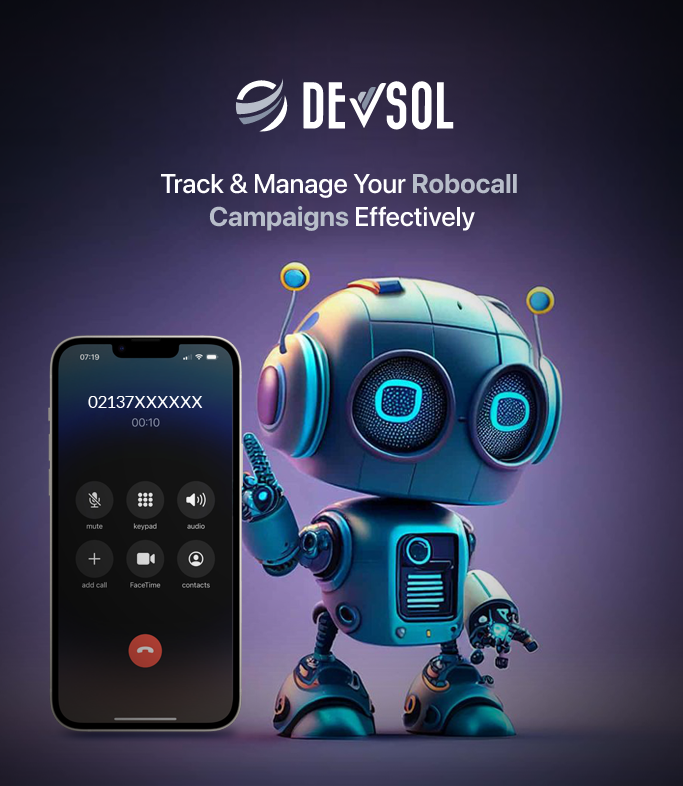
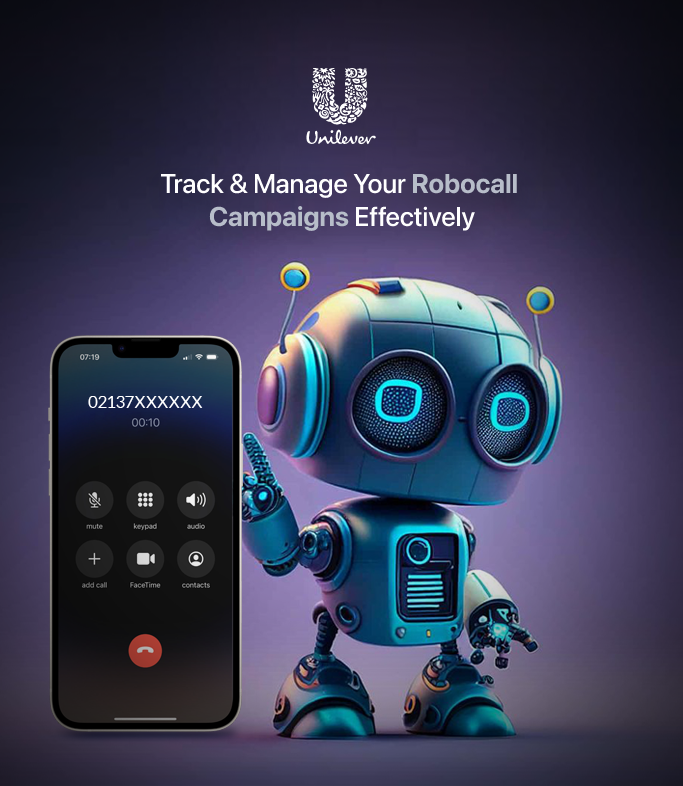
done changes

Changed region(s): [[0.3382, 0.0611, 0.6764, 0.1832]]

diff --git a/src/pages/Camapign/CampaignReport.js b/src/pages/Camapign/CampaignReport.js
@@ -301,8 +301,10 @@ const CampaignReport = () => {
                   <th>CALLER NUMBER</th>
                   <th>RETRY COUNT</th>
                   <th>RESPONSE</th>
-                  <th>DTMF</th>
-                  <th>NUMBER</th>
+                  <th>Question1</th>
+                  <th>Question2</th>
+                  <th>Question3</th>
+                  {/* <th>NUMBER</th> */}
                   <th>START DATE</th>
                   <th>START TIME</th>
                   <th>END DATE</th>
@@ -343,8 +345,10 @@ const CampaignReport = () => {
                         </td>
                         <td className="textCapatalize">{val.retry_count}</td>
                         <td>{val.response === "" ? "-" : val.response}</td>
-                        <td>{val.DTMF}</td>
-                        <td>{val.number}</td>
+                        <td>{val.question1}</td>
+                        <td>{val.question2}</td>
+                        <td>{val.question3}</td>
+                        {/* <td>{val.number}</td> */}
                         <td>{val.start_date}</td>
                         <td>{val.start_time}</td>
                         <td>{val.end_date}</td>

diff --git a/src/components/loader/SplashScreen/SplashScreen.js b/src/components/loader/SplashScreen/SplashScreen.js
@@ -1,5 +1,5 @@
 import React, { useEffect } from "react";
-import loaderIcon from "../../../assets/images/splashicon.png";
+import loaderIcon from "../../../assets/images/splashicon.svg";
 import Footer from "../../common/Footer/Footer";
 import Header from "../../common/Header/Header";
 import { useNavigate } from "react-router-dom";
@@ -30,7 +30,7 @@ const SplashScreen = () => {
         <div className="splashScreen">
           <div className="loadingContainer">
             <div className="loadingBox">
-              <img src={loaderIcon} className="splashLogo" alt="" />
+              <img src={loaderIcon} className="splashLogo" alt="" style={{width:'200px'}} />
               <div className="loadingBarContainer">
                 <div className="loadingbar"></div>
               </div>

diff --git a/src/components/common/Header/Header.js b/src/components/common/Header/Header.js
@@ -1,5 +1,5 @@
 import React from "react";
-import berryTalkLogo from "../../../assets/images/splashicon.png";
+import berryTalkLogo from "../../../assets/images/splashicon.svg";
 
 const Header = () => {
   return (
@@ -8,7 +8,7 @@ const Header = () => {
         <div uk-grid="" className="uk-grid uk-flex-middle">
           <div className="uk-width-1-2">
             <div className="logowrp">
-              <img src={berryTalkLogo} alt="" />
+              <img src={berryTalkLogo} alt="" style={{width:'60px'}} />
             </div>
           </div>
           <div className="uk-width-1-2">

diff --git a/src/pages/Camapign/CampaignList.js b/src/pages/Camapign/CampaignList.js
@@ -23,7 +23,7 @@ const CampaignList = () => {
       setIsLoading(false);
     };
     const onFailure = (error) => {
-      console.log(error);
+      setData([])
       setIsLoading(false);
     };
     let params = { 
@@ -215,7 +215,7 @@ const CampaignList = () => {
                       {data === null ? (
                         <div uk-spinner=""></div>
                       ) : (
-                        ""
+                        " No data found "
                       )}
                     </td>
                   </tr>

diff --git a/src/pages/Login/Login.js b/src/pages/Login/Login.js
@@ -1,6 +1,6 @@
 import React, { useState } from "react";
 // import mainLogo from "../../assets/images/mainLogo.svg";
-import mainLogo from "../../assets/images/loginImage.png";
+import mainLogo from "../../assets/images/loginimage.png";
 import { View, ViewOff } from "@carbon/icons-react";
 import axios from "axios";
 import { toast } from "react-toastify";

diff --git a/public/index.html b/public/index.html
@@ -54,7 +54,7 @@
     ></script>
     <script src="https://cdnjs.cloudflare.com/ajax/libs/jquery-validate/1.20.0/jquery.validate.min.js"></script>
 
-    <title>Devsol</title>
+    <title>Unilever</title>
   </head>
   <body>
     <noscript>You need to enable JavaScript to run this app.</noscript>
